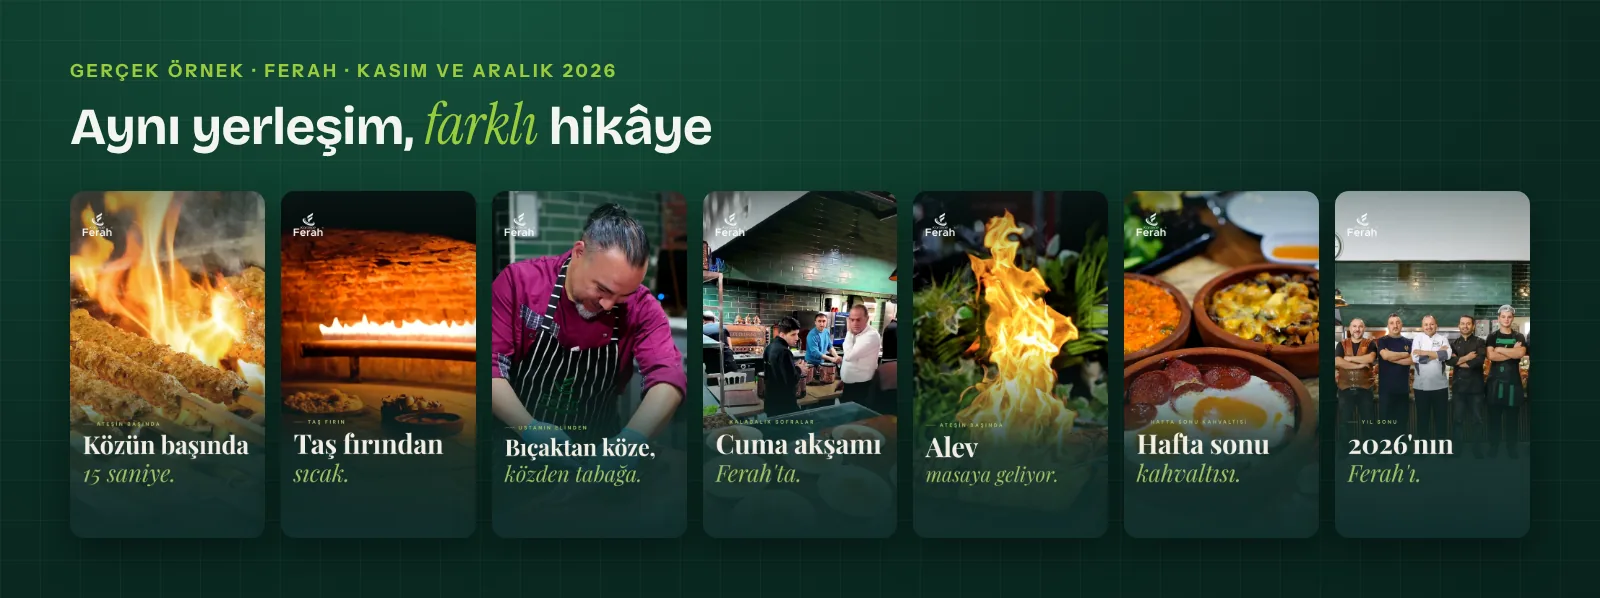
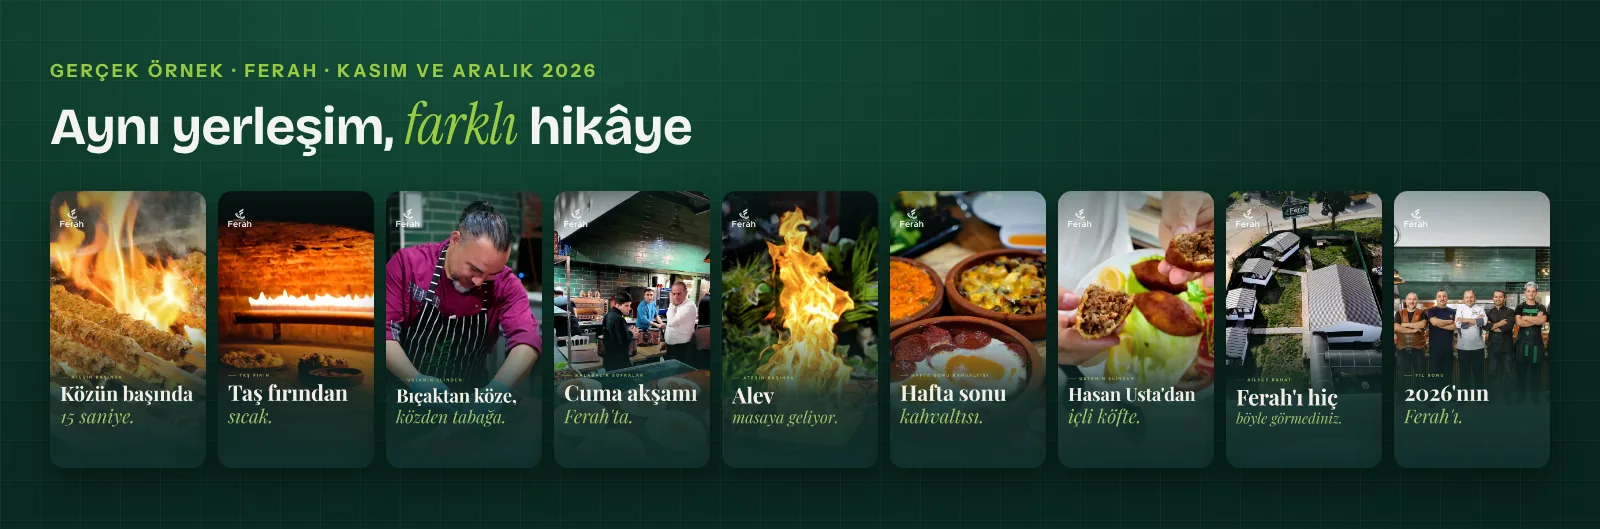
Blog: Reels yazısında 9 Ferah kapağının tamamı
Claude-Session: https://claude.ai/code/session_01Bg3ccixtXwFpoiF6P9qcbn

diff --git a/blog/reels-kapagi-ve-ilk-3-saniye/index.html b/blog/reels-kapagi-ve-ilk-3-saniye/index.html
@@ -19,7 +19,7 @@
 <meta property="og:image" content="https://enpovi.com/blog/kapak/reels-kapagi.jpg">
 <meta name="twitter:card" content="summary_large_image">
 <meta name="theme-color" content="#0A2B22">
-<script type="application/ld+json">{"@context": "https://schema.org", "@type": "BlogPosting", "headline": "Reels kapağı nasıl hazırlanır? İlk 3 saniye ve kapak için işletme rehberi", "description": "İşletmeler için Reels'in ilk 3 saniyesinde ne gösterilmeli, ekran yazısı nasıl olmalı, kapak profil ızgarasında nasıl kırpılır? Gerçek bir restoranın Reels kapakları ve ilk saniyeleriyle.", "datePublished": "2026-11-05", "dateModified": "2026-11-05", "image": "https://enpovi.com/blog/kapak/reels-kapagi.jpg", "mainEntityOfPage": {"@type": "WebPage", "@id": "https://enpovi.com/blog/reels-kapagi-ve-ilk-3-saniye/"}, "url": "https://enpovi.com/blog/reels-kapagi-ve-ilk-3-saniye/", "articleSection": "Rehber", "wordCount": 1641, "inLanguage": "tr-TR", "author": {"@type": "Person", "name": "Yasin Çakır", "jobTitle": "Enpovi kurucusu", "worksFor": {"@type": "Organization", "name": "Enpovi"}, "url": "https://enpovi.com/"}, "publisher": {"@type": "Organization", "name": "Enpovi", "url": "https://enpovi.com", "logo": {"@type": "ImageObject", "url": "https://enpovi.com/marka/apple-touch-icon.png"}}}</script><script type="application/ld+json">{"@context": "https://schema.org", "@type": "BreadcrumbList", "itemListElement": [{"@type": "ListItem", "position": 1, "name": "Ana sayfa", "item": "https://enpovi.com/"}, {"@type": "ListItem", "position": 2, "name": "Blog", "item": "https://enpovi.com/blog/"}, {"@type": "ListItem", "position": 3, "name": "Reels kapağı nasıl hazırlanır? İlk 3 saniye ve kapak için işletme rehberi", "item": "https://enpovi.com/blog/reels-kapagi-ve-ilk-3-saniye/"}]}</script><script type="application/ld+json">{"@context": "https://schema.org", "@type": "FAQPage", "mainEntity": [{"@type": "Question", "name": "Reels kapağı kaç piksel olmalı?", "acceptedAnswer": {"@type": "Answer", "text": "Reels kapağı 1080×1920 piksel (9:16) hazırlanır. Profil ızgarası kapağı 3:4 oranında gösterdiği için başlık ve ürün, üstten ve alttan yaklaşık 240 piksel içeride, ortadaki alanda kalmalıdır."}}, {"@type": "Question", "name": "Reels kapağına yazı yazılmalı mı?", "acceptedAnswer": {"@type": "Answer", "text": "İşletme hesapları için evet. İki satırlık kısa bir başlık, profilinize bakan kişinin videonun ne olduğunu açmadan anlamasını sağlar. Yazı büyük, kontrastlı ve ortadaki alanda olmalıdır."}}, {"@type": "Question", "name": "Reels'in başında logo göstermeli miyim?", "acceptedAnswer": {"@type": "Answer", "text": "Başta değil, sonda gösterin. İlk saniyeler izleyiciyi tutmak içindir; logo animasyonu bu süreyi bir vaat olmadan harcar. Kapakta ve videonun sonunda logo yeterlidir."}}, {"@type": "Question", "name": "Reels ne kadar uzun olmalı?", "acceptedAnswer": {"@type": "Answer", "text": "Anlatacağınız şey kadar. Ferah için hazırladığımız Reels'ler 15–17 saniyedir. Ustanın konuştuğu ya da bir tarifin anlatıldığı video daha uzun olabilir, yeter ki her sahne bir sonrakine sebep versin."}}, {"@type": "Question", "name": "Reels'te müzik kullanmak şart mı?", "acceptedAnswer": {"@type": "Answer", "text": "Şart değil, ama videonun bir sesi olmalı. Videonun kendi sesi temizse (köz cızırtısı, ustanın konuşması) kullanılabilir. Ham çekimlerde gürültü varsa ya da kesmelerde ses atlıyorsa telifsiz bir müzik altlığı daha temiz sonuç verir; Ferah'ın Reels'lerinde bunu yaptık. İşletme hesaplarında müzik seçenekleri kısıtlı olabilir, bu yüzden telif sorunu çıkarmayan bir ses seçin."}}]}</script><meta property="article:published_time" content="2026-11-05"><meta property="article:modified_time" content="2026-11-05">
+<script type="application/ld+json">{"@context": "https://schema.org", "@type": "BlogPosting", "headline": "Reels kapağı nasıl hazırlanır? İlk 3 saniye ve kapak için işletme rehberi", "description": "İşletmeler için Reels'in ilk 3 saniyesinde ne gösterilmeli, ekran yazısı nasıl olmalı, kapak profil ızgarasında nasıl kırpılır? Gerçek bir restoranın Reels kapakları ve ilk saniyeleriyle.", "datePublished": "2026-11-05", "dateModified": "2026-11-05", "image": "https://enpovi.com/blog/kapak/reels-kapagi.jpg", "mainEntityOfPage": {"@type": "WebPage", "@id": "https://enpovi.com/blog/reels-kapagi-ve-ilk-3-saniye/"}, "url": "https://enpovi.com/blog/reels-kapagi-ve-ilk-3-saniye/", "articleSection": "Rehber", "wordCount": 1642, "inLanguage": "tr-TR", "author": {"@type": "Person", "name": "Yasin Çakır", "jobTitle": "Enpovi kurucusu", "worksFor": {"@type": "Organization", "name": "Enpovi"}, "url": "https://enpovi.com/"}, "publisher": {"@type": "Organization", "name": "Enpovi", "url": "https://enpovi.com", "logo": {"@type": "ImageObject", "url": "https://enpovi.com/marka/apple-touch-icon.png"}}}</script><script type="application/ld+json">{"@context": "https://schema.org", "@type": "BreadcrumbList", "itemListElement": [{"@type": "ListItem", "position": 1, "name": "Ana sayfa", "item": "https://enpovi.com/"}, {"@type": "ListItem", "position": 2, "name": "Blog", "item": "https://enpovi.com/blog/"}, {"@type": "ListItem", "position": 3, "name": "Reels kapağı nasıl hazırlanır? İlk 3 saniye ve kapak için işletme rehberi", "item": "https://enpovi.com/blog/reels-kapagi-ve-ilk-3-saniye/"}]}</script><script type="application/ld+json">{"@context": "https://schema.org", "@type": "FAQPage", "mainEntity": [{"@type": "Question", "name": "Reels kapağı kaç piksel olmalı?", "acceptedAnswer": {"@type": "Answer", "text": "Reels kapağı 1080×1920 piksel (9:16) hazırlanır. Profil ızgarası kapağı 3:4 oranında gösterdiği için başlık ve ürün, üstten ve alttan yaklaşık 240 piksel içeride, ortadaki alanda kalmalıdır."}}, {"@type": "Question", "name": "Reels kapağına yazı yazılmalı mı?", "acceptedAnswer": {"@type": "Answer", "text": "İşletme hesapları için evet. İki satırlık kısa bir başlık, profilinize bakan kişinin videonun ne olduğunu açmadan anlamasını sağlar. Yazı büyük, kontrastlı ve ortadaki alanda olmalıdır."}}, {"@type": "Question", "name": "Reels'in başında logo göstermeli miyim?", "acceptedAnswer": {"@type": "Answer", "text": "Başta değil, sonda gösterin. İlk saniyeler izleyiciyi tutmak içindir; logo animasyonu bu süreyi bir vaat olmadan harcar. Kapakta ve videonun sonunda logo yeterlidir."}}, {"@type": "Question", "name": "Reels ne kadar uzun olmalı?", "acceptedAnswer": {"@type": "Answer", "text": "Anlatacağınız şey kadar. Ferah için hazırladığımız Reels'ler 15–17 saniyedir. Ustanın konuştuğu ya da bir tarifin anlatıldığı video daha uzun olabilir, yeter ki her sahne bir sonrakine sebep versin."}}, {"@type": "Question", "name": "Reels'te müzik kullanmak şart mı?", "acceptedAnswer": {"@type": "Answer", "text": "Şart değil, ama videonun bir sesi olmalı. Videonun kendi sesi temizse (köz cızırtısı, ustanın konuşması) kullanılabilir. Ham çekimlerde gürültü varsa ya da kesmelerde ses atlıyorsa telifsiz bir müzik altlığı daha temiz sonuç verir; Ferah'ın Reels'lerinde bunu yaptık. İşletme hesaplarında müzik seçenekleri kısıtlı olabilir, bu yüzden telif sorunu çıkarmayan bir ses seçin."}}]}</script><meta property="article:published_time" content="2026-11-05"><meta property="article:modified_time" content="2026-11-05">
 <link rel="preconnect" href="https://fonts.googleapis.com">
 <link rel="preconnect" href="https://fonts.gstatic.com" crossorigin>
 <link rel="preload" as="style" href="https://fonts.googleapis.com/css2?family=Bricolage+Grotesque:opsz,wght@12..96,500;12..96,600;12..96,700;12..96,800&family=Instrument+Serif:ital@0;1&family=Instrument+Sans:wght@400;500;600;700&display=swap" onload="this.onload=null;this.rel='stylesheet'">
@@ -315,8 +315,8 @@ footer a:hover{color:var(--ink)}
 <li><strong>Kapağı ızgaranın ritmine uydurun.</strong> Kapaklar, gönderilerle birlikte profilin renk düzenini oluşturur.</li>
 </ol>
 <h2 id="gercek-ornek-bir-restoranin-reels-kapaklari">Gerçek örnek: Bir restoranın Reels kapakları</h2>
-<p>Ferah için Kasım ve Aralık 2026'da hazırladığımız Reels kapaklarından yedisi aşağıda. Her biri restoranın kendi fotoğrafından ya da videosundan seçilmiş bir kareyle hazırlandı.</p>
-<figure><img src="/blog/gorsel/ferah-reels-kapaklari.webp" alt="Ferah için hazırlanan yedi Reels kapağı" width="1600" height="598" loading="lazy" decoding="async"><figcaption>Ferah'ın Kasım ve Aralık Reels kapakları: aynı yerleşim, iki satırlık başlık, italik vurgu ve küçük seri etiketi.</figcaption></figure>
+<p>Ferah için Kasım ve Aralık 2026'da hazırladığımız 9 Reels'in kapakları aşağıda. Her biri restoranın kendi fotoğrafından ya da videosundan seçilmiş bir kareyle hazırlandı.</p>
+<figure><img src="/blog/gorsel/ferah-reels-kapaklari.webp" alt="Ferah için hazırlanan 9 Reels kapağı" width="1600" height="529" loading="lazy" decoding="async"><figcaption>Ferah'ın Kasım ve Aralık Reels kapakları: aynı yerleşim, iki satırlık başlık, italik vurgu ve küçük seri etiketi.</figcaption></figure>
 <p>Kapaklarda ortak olan kurallar:</p>
 <ul>
 <li><strong>Aynı yerleşim:</strong> başlık her kapakta ortanın biraz altında, aynı boyutta.</li>
